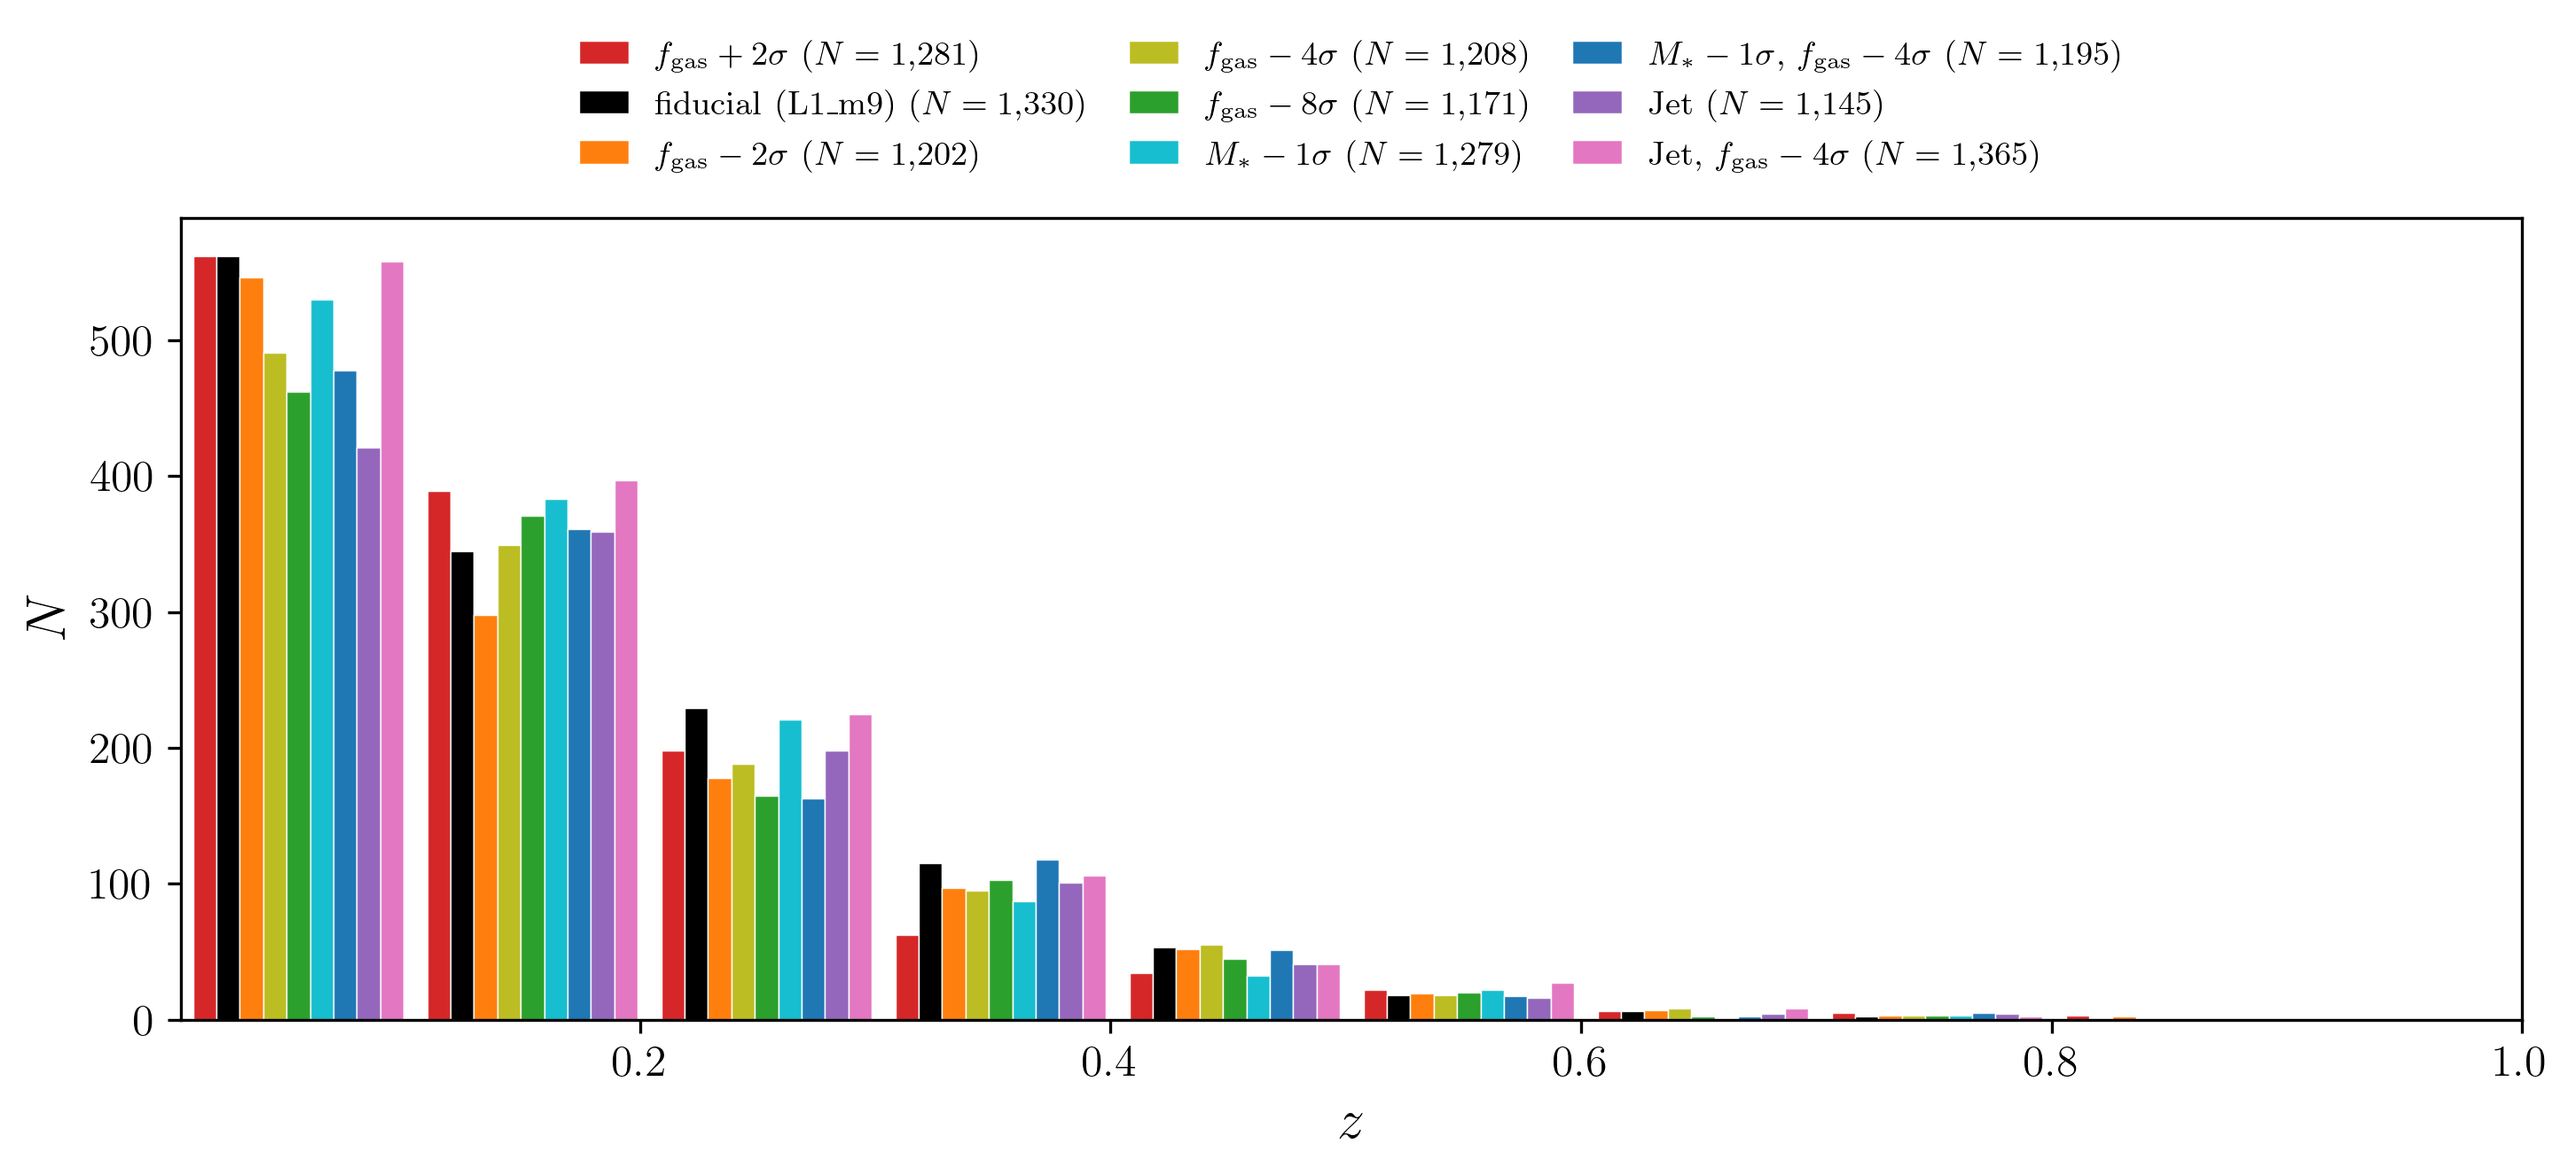
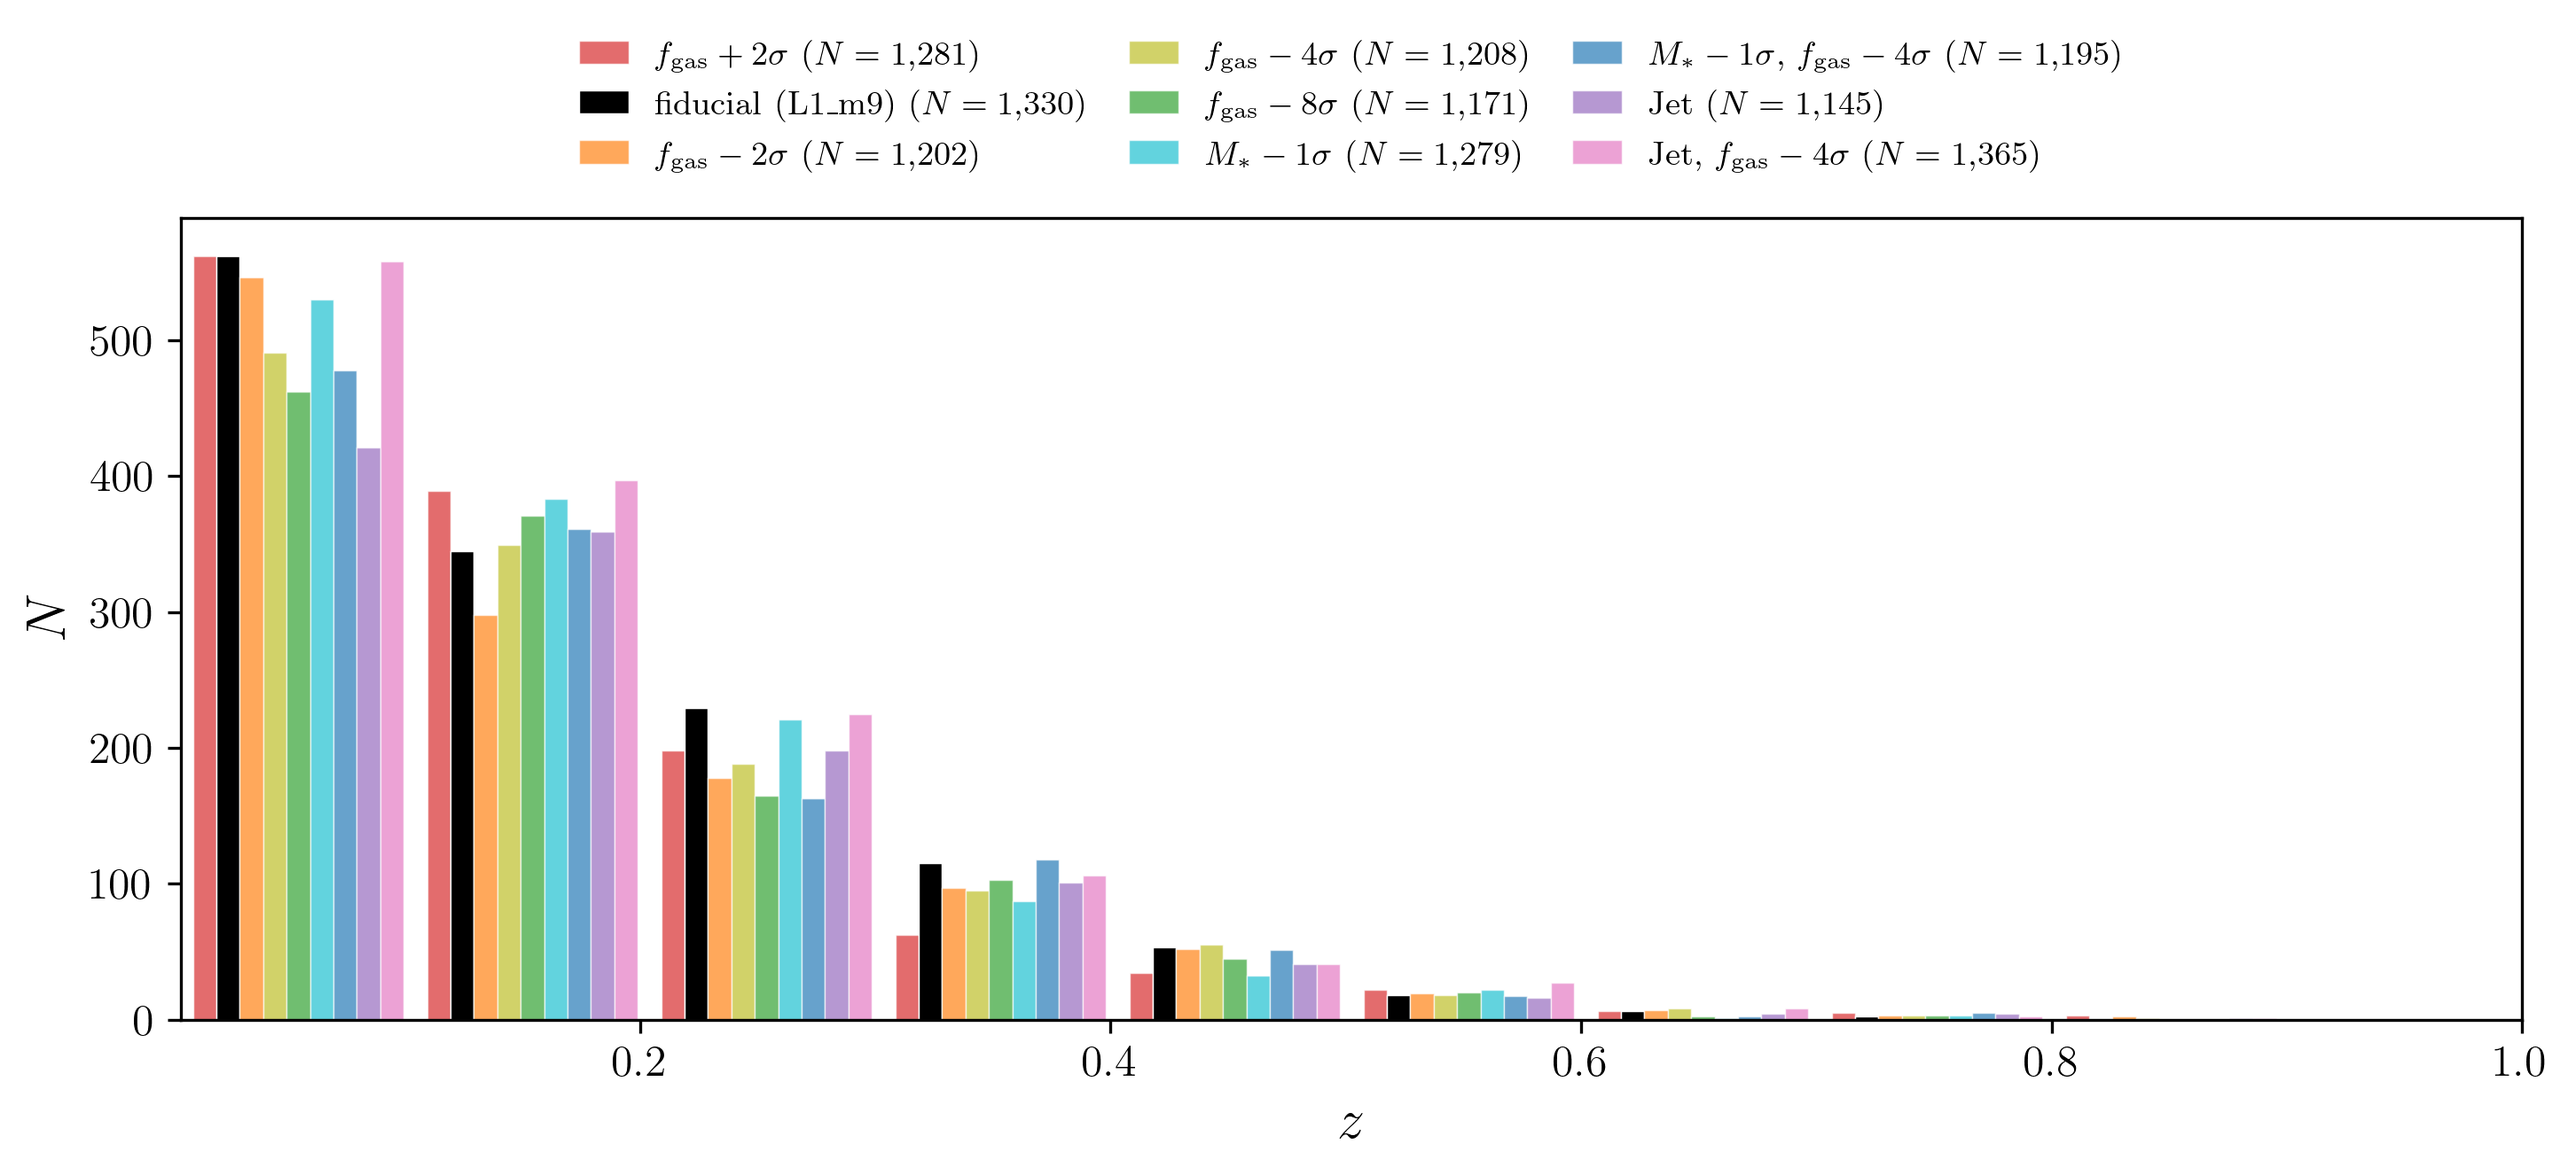
style: emphasize fiducial count bars

diff --git a/tests/test_l1_m9_binned_cnc.py b/tests/test_l1_m9_binned_cnc.py
@@ -118,6 +118,10 @@ def test_separate_figures_group_all_nine_marginals():
         assert fig_z.axes[0].get_xlabel() == r"$z$"
         assert fig_q.axes[0].get_ylabel() == fig_z.axes[0].get_ylabel() == r"$N$"
         assert fig_q.axes[0].xaxis.label.get_usetex()
+        q_bars = fig_q.axes[0].patches
+        assert q_bars[5].get_alpha() == 1.0
+        assert all(bar.get_alpha() == 0.68 for bar in q_bars[:5])
+        assert all(bar.get_alpha() == 0.68 for bar in q_bars[10:])
         labels = [
             text.get_text() for text in fig_q.axes[0].get_legend().get_texts()
         ]

diff --git a/scripts/plot_l1_m9_binned_cnc.py b/scripts/plot_l1_m9_binned_cnc.py
@@ -139,6 +139,7 @@ def build_figure(
             width=widths,
             align="edge",
             color=COLORS[variant],
+            alpha=1.0 if variant == "L1_m9" else 0.68,
             edgecolor="white",
             linewidth=0.35,
             label=legend_label(variant, int(histograms[variant].sum())),
